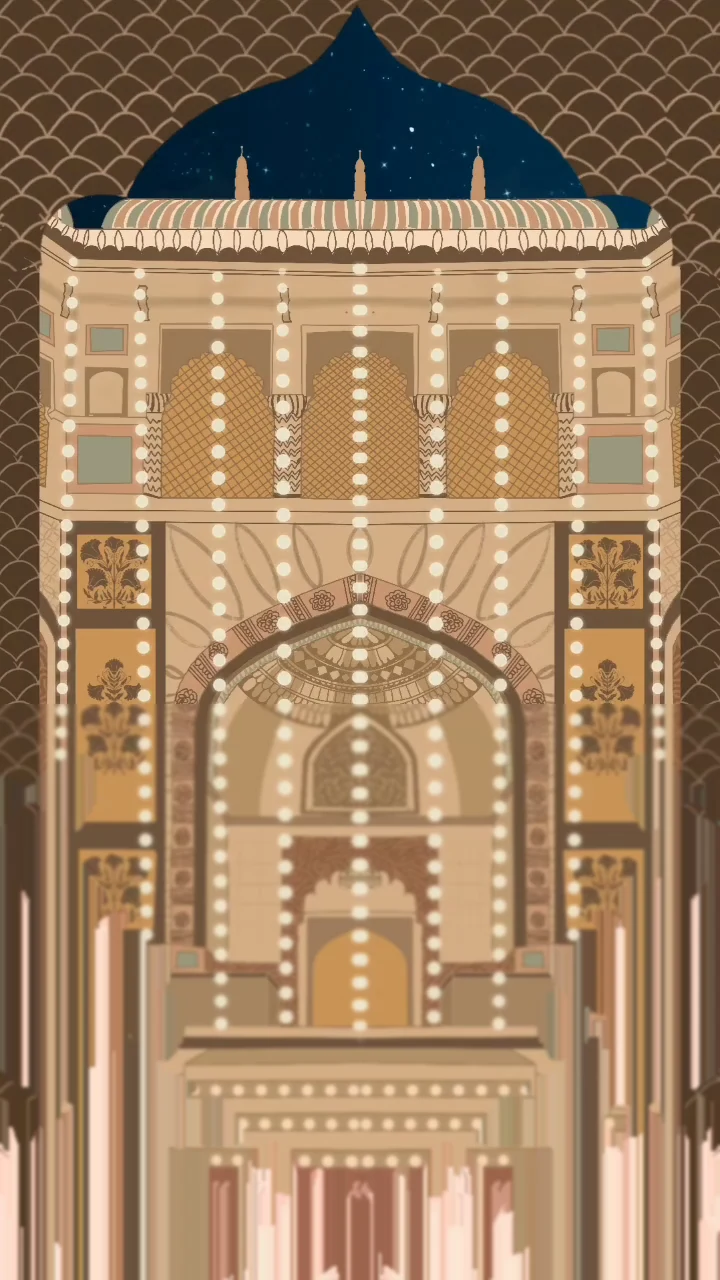
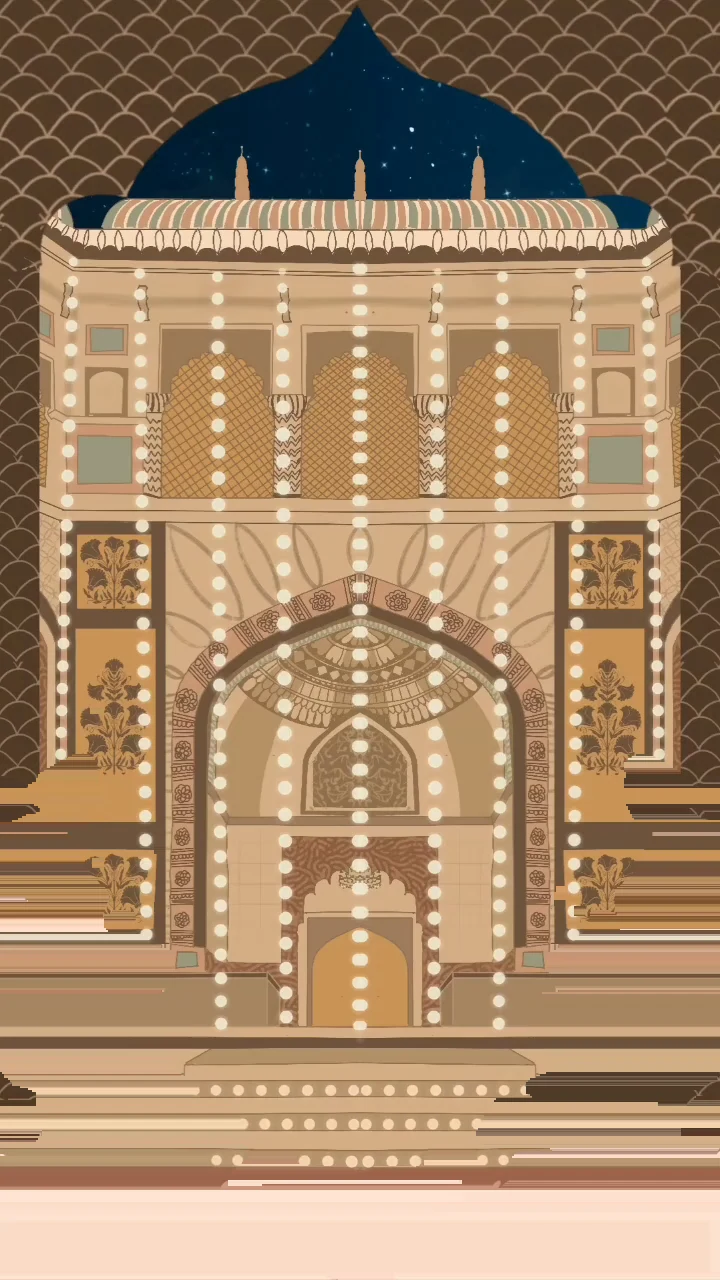
Invitation: rebuild the steps, twinkle the lamps, add the Ganesha
STEPS. The last pass healed the flower mask by smearing each column downward
and turned the palace steps into vertical streaks. Wrong axis - the steps are
horizontal bands and the lamp strings run along them, so the fill has to travel
sideways. Every masked pixel now takes the nearest clean pixel in its own row,
which continues a band exactly rather than dragging it. A row that is flowers
all the way across falls back to the row above, already healed.

The doors get the same treatment: a leaf that swings open was carrying its own
bouquet, because the flowers were baked into the door texture too.

LAMPS twinkle from a shader, not a pulsing opacity. Pulsing the layer makes
every bulb on the building blink in lockstep, which reads as a fault. Quantising
the UV into cells and hashing that gives each cluster its own phase, so they
drift in and out of step the way real strings do - one texture, one draw call.

GANESHA arrives before the wording and leaves before it starts. Cut from the
film by distance from the card's own colour rather than a hue window, because
the motif runs from pale highlight to deep shadow and no single band catches
both ends. Alpha is ramped, not thresholded, so the thin strokes keep their
edges instead of becoming a stencil.

diff --git a/apps/web/components/invitation-3d/scene.tsx b/apps/web/components/invitation-3d/scene.tsx
@@ -36,7 +36,7 @@ import { CARD_ASPECT, cardTexture } from './card-texture'
  * state and stops.
  */
 
-const DUR = 15.0
+const DUR = 17.5
 
 /**
  * The beats, in seconds.
@@ -122,20 +122,63 @@ export default function InvitationScene({ onTime }: { onTime: (t: number) => voi
       )
 
     void (async () => {
-      const [stageTex, dlTex, drTex, lotusTex] = await Promise.all([
+      const [stageTex, dlTex, drTex, lotusTex, lightsTex] = await Promise.all([
         load('/inv/stage.webp'),
         load('/inv/door-l.webp'),
         load('/inv/door-r.webp'),
         load('/inv/lotus.webp'),
+        load('/inv/lights.webp'),
       ])
       if (disposed) return
 
       // ── Stage ─────────────────────────────────────────────────────────
       const stage = plane(FRAME_W, FRAME_H, stageTex)
       stage.position.z = -2.6
-      // Slightly oversized, so the push-in never runs past its edges.
+      // Oversized, so the frame's own edge is never inside the viewport.
       stage.scale.setScalar(1.35)
       scene.add(stage)
+
+      /*
+        ── Lamps ───────────────────────────────────────────────────────
+
+        The strings of bulbs, cut out of the same frame and laid over it with additive
+        blending so they read as light rather than as paint.
+
+        The twinkle is a shader rather than a pulsing opacity because pulsing the whole
+        layer makes every bulb on the building blink in lockstep, which looks like a fault
+        rather than a decoration. Quantising the UV into cells and hashing that gives each
+        cluster its own phase, so they drift in and out of step the way real strings do -
+        one texture, one draw call, no per-lamp objects.
+      */
+      const lampMat = new THREE.ShaderMaterial({
+        uniforms: { map: { value: lightsTex }, uTime: { value: 0 } },
+        transparent: true,
+        depthWrite: false,
+        blending: THREE.AdditiveBlending,
+        vertexShader: `
+          varying vec2 vUv;
+          void main() {
+            vUv = uv;
+            gl_Position = projectionMatrix * modelViewMatrix * vec4(position, 1.0);
+          }
+        `,
+        fragmentShader: `
+          uniform sampler2D map;
+          uniform float uTime;
+          varying vec2 vUv;
+          void main() {
+            vec4 t = texture2D(map, vUv);
+            vec2 cell = floor(vUv * vec2(34.0, 60.0));
+            float phase = fract(sin(dot(cell, vec2(12.9898, 78.233))) * 43758.5453);
+            float tw = 0.55 + 0.45 * sin(uTime * 2.1 + phase * 6.2831);
+            gl_FragColor = vec4(t.rgb * tw, t.a * tw);
+          }
+        `,
+      })
+      const lamps = new THREE.Mesh(new THREE.PlaneGeometry(FRAME_W, FRAME_H), lampMat)
+      lamps.position.z = -2.58
+      lamps.scale.setScalar(1.35)
+      scene.add(lamps)
 
       // ── Card ──────────────────────────────────────────────────────────
       /*
@@ -249,6 +292,8 @@ export default function InvitationScene({ onTime }: { onTime: (t: number) => voi
         // Flowers clear off the bottom as the leaf arrives. Enough travel to put the tops
         // of the tallest blooms below the frame, not just the plane's own centre.
         lotus.position.y = LOTUS_Y - seg(t, T.lotusOut) * lotusH * 1.15
+
+        lampMat.uniforms.uTime!.value = t
 
         tick.current(t)
       }

diff --git a/apps/web/components/invitation-3d/index.tsx b/apps/web/components/invitation-3d/index.tsx
@@ -148,7 +148,13 @@ function Music() {
  * Every line is real text in document order, so a screen reader gets the invitation in the
  * order it is meant to be read, and the clip is purely visual.
  */
-const START = 6.0
+/**
+ * The Ganesha comes first and leaves before the wording starts - invoked, then out of the
+ * way. Overlapping the two would put a large gold motif behind the first lines, which is
+ * exactly where the eye needs to be.
+ */
+const GANESHA = { in: 6.0, hold: 2.4, out: 0.8 }
+const START = GANESHA.in + GANESHA.hold + GANESHA.out + 0.3
 const GAP = 0.34
 const WIPE = 0.55
 
@@ -157,7 +163,7 @@ type Line = { t: string; cls?: string; gap?: number; hidden?: boolean }
 const LINES: Line[] = [
   { t: 'R&D', cls: 'font-display text-[7vh] leading-none text-[#2b2119]', hidden: true },
 
-  { t: 'Mrs. Ramilaben & Mr. Manoj Kumar', gap: 3 },
+  { t: 'Mrs. Ramilaben & Mr. Manoj Kumar', gap: 2.4 },
   { t: 'request your gracious presence' },
   { t: 'on the auspicious occasion of' },
   { t: 'the wedding of their grandson' },
@@ -176,8 +182,30 @@ const LINES: Line[] = [
 ]
 
 function Wording({ t }: { t: number }) {
+  // In, hold, out - a single value so the motif never sits behind the wording.
+  const gIn = clamp01((t - GANESHA.in) / 1.1)
+  const gOut = clamp01((t - (GANESHA.in + GANESHA.hold)) / GANESHA.out)
+  const ganesha = gIn * (1 - gOut)
+
   return (
     <div className="pointer-events-none absolute inset-0 flex items-center justify-center">
+      {/* eslint-disable-next-line @next/next/no-img-element -- plan §12: no next/image */}
+      <img
+        src="/inv/ganesha.webp"
+        alt=""
+        aria-hidden="true"
+        width={400}
+        height={400}
+        className="absolute h-[26vh] w-auto"
+        style={{
+          opacity: ganesha,
+          // Rises a little on the way in and settles - it should arrive, not switch on.
+          transform: `translateY(${(1 - gIn) * 3}vh) scale(${0.94 + gIn * 0.06})`,
+          marginTop: '-14vh',
+          visibility: ganesha > 0.002 ? 'visible' : 'hidden',
+        }}
+      />
+
       <div
         className="w-[min(46vh,20rem)] text-center text-[#3a2f24]"
         style={{ marginTop: '2vh' }}
